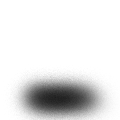
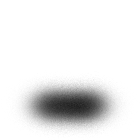
shadow in map

Changed region(s): [[0.125, 0.75, 0.9, 1.0], [0.25, 0.6, 0.775, 0.775]]

diff --git a/map.py b/map.py
@@ -65,8 +65,6 @@ class World(pygame.sprite.Sprite):
 class Player(pygame.sprite.Sprite):
     def __init__(self):
         super().__init__()
-        self.shadow = pygame.image.load(
-            'gfx/puolukka-shadow.png').convert_alpha()
         self.index = 0
         self.images = []
         for i in range(0, 72):
@@ -75,7 +73,6 @@ class Player(pygame.sprite.Sprite):
         self.image = self.images[self.index].convert_alpha()
         self.mask = pygame.mask.from_surface(self.image)
         self.rect = self.image.get_rect()
-        self.shadow_rect = self.shadow.get_rect()
         self.pos = vec((ww/2, wh-wh/2))
         self.shadow_pos = vec((self.pos.x-20, self.pos.y-20))
         self.vel = vec(0, 0)
@@ -161,11 +158,28 @@ class Player(pygame.sprite.Sprite):
         self.rect.midbottom = self.pos
 
 
+class Shadow(pygame.sprite.Sprite):
+    def __init__(self):
+        super().__init__()
+        self.image = pygame.image.load(
+            'gfx/puolukka-shadow.png').convert_alpha()
+        self.rect = self.image.get_rect()
+        self.pos = vec((ww/2, wh-wh/2))
+
+    def update(self):
+        self.pos = player.pos
+        self.rect.midbottom = self.pos + (0,30)
+
+
 window = pygame.display.set_mode((ww, wh))
 
 player = Player()
 player_group = pygame.sprite.GroupSingle()
 player_group.add(player)
+
+shadow = Shadow()
+shadow_group = pygame.sprite.GroupSingle()
+shadow_group.add(shadow)
 
 collision = World('gfx/map-col.png')
 taakse = World('gfx/map.png')
@@ -189,6 +203,7 @@ col_group.add(collision)
 sprite_group = pygame.sprite.Group()
 # sprite_group.add(collision)
 sprite_group.add(taakse)
+sprite_group.add(shadow)
 sprite_group.add(player)
 # sprite_group.add(eteen)
 
@@ -248,8 +263,10 @@ def start_game(run):
 
         sprite_group.update()
         col_group.update()
+        shadow_group.update()
         player_group.update()
         point_group.update()
+        shadow.update()
         player.update()
         window.fill(white)
         sprite_group.draw(window)
